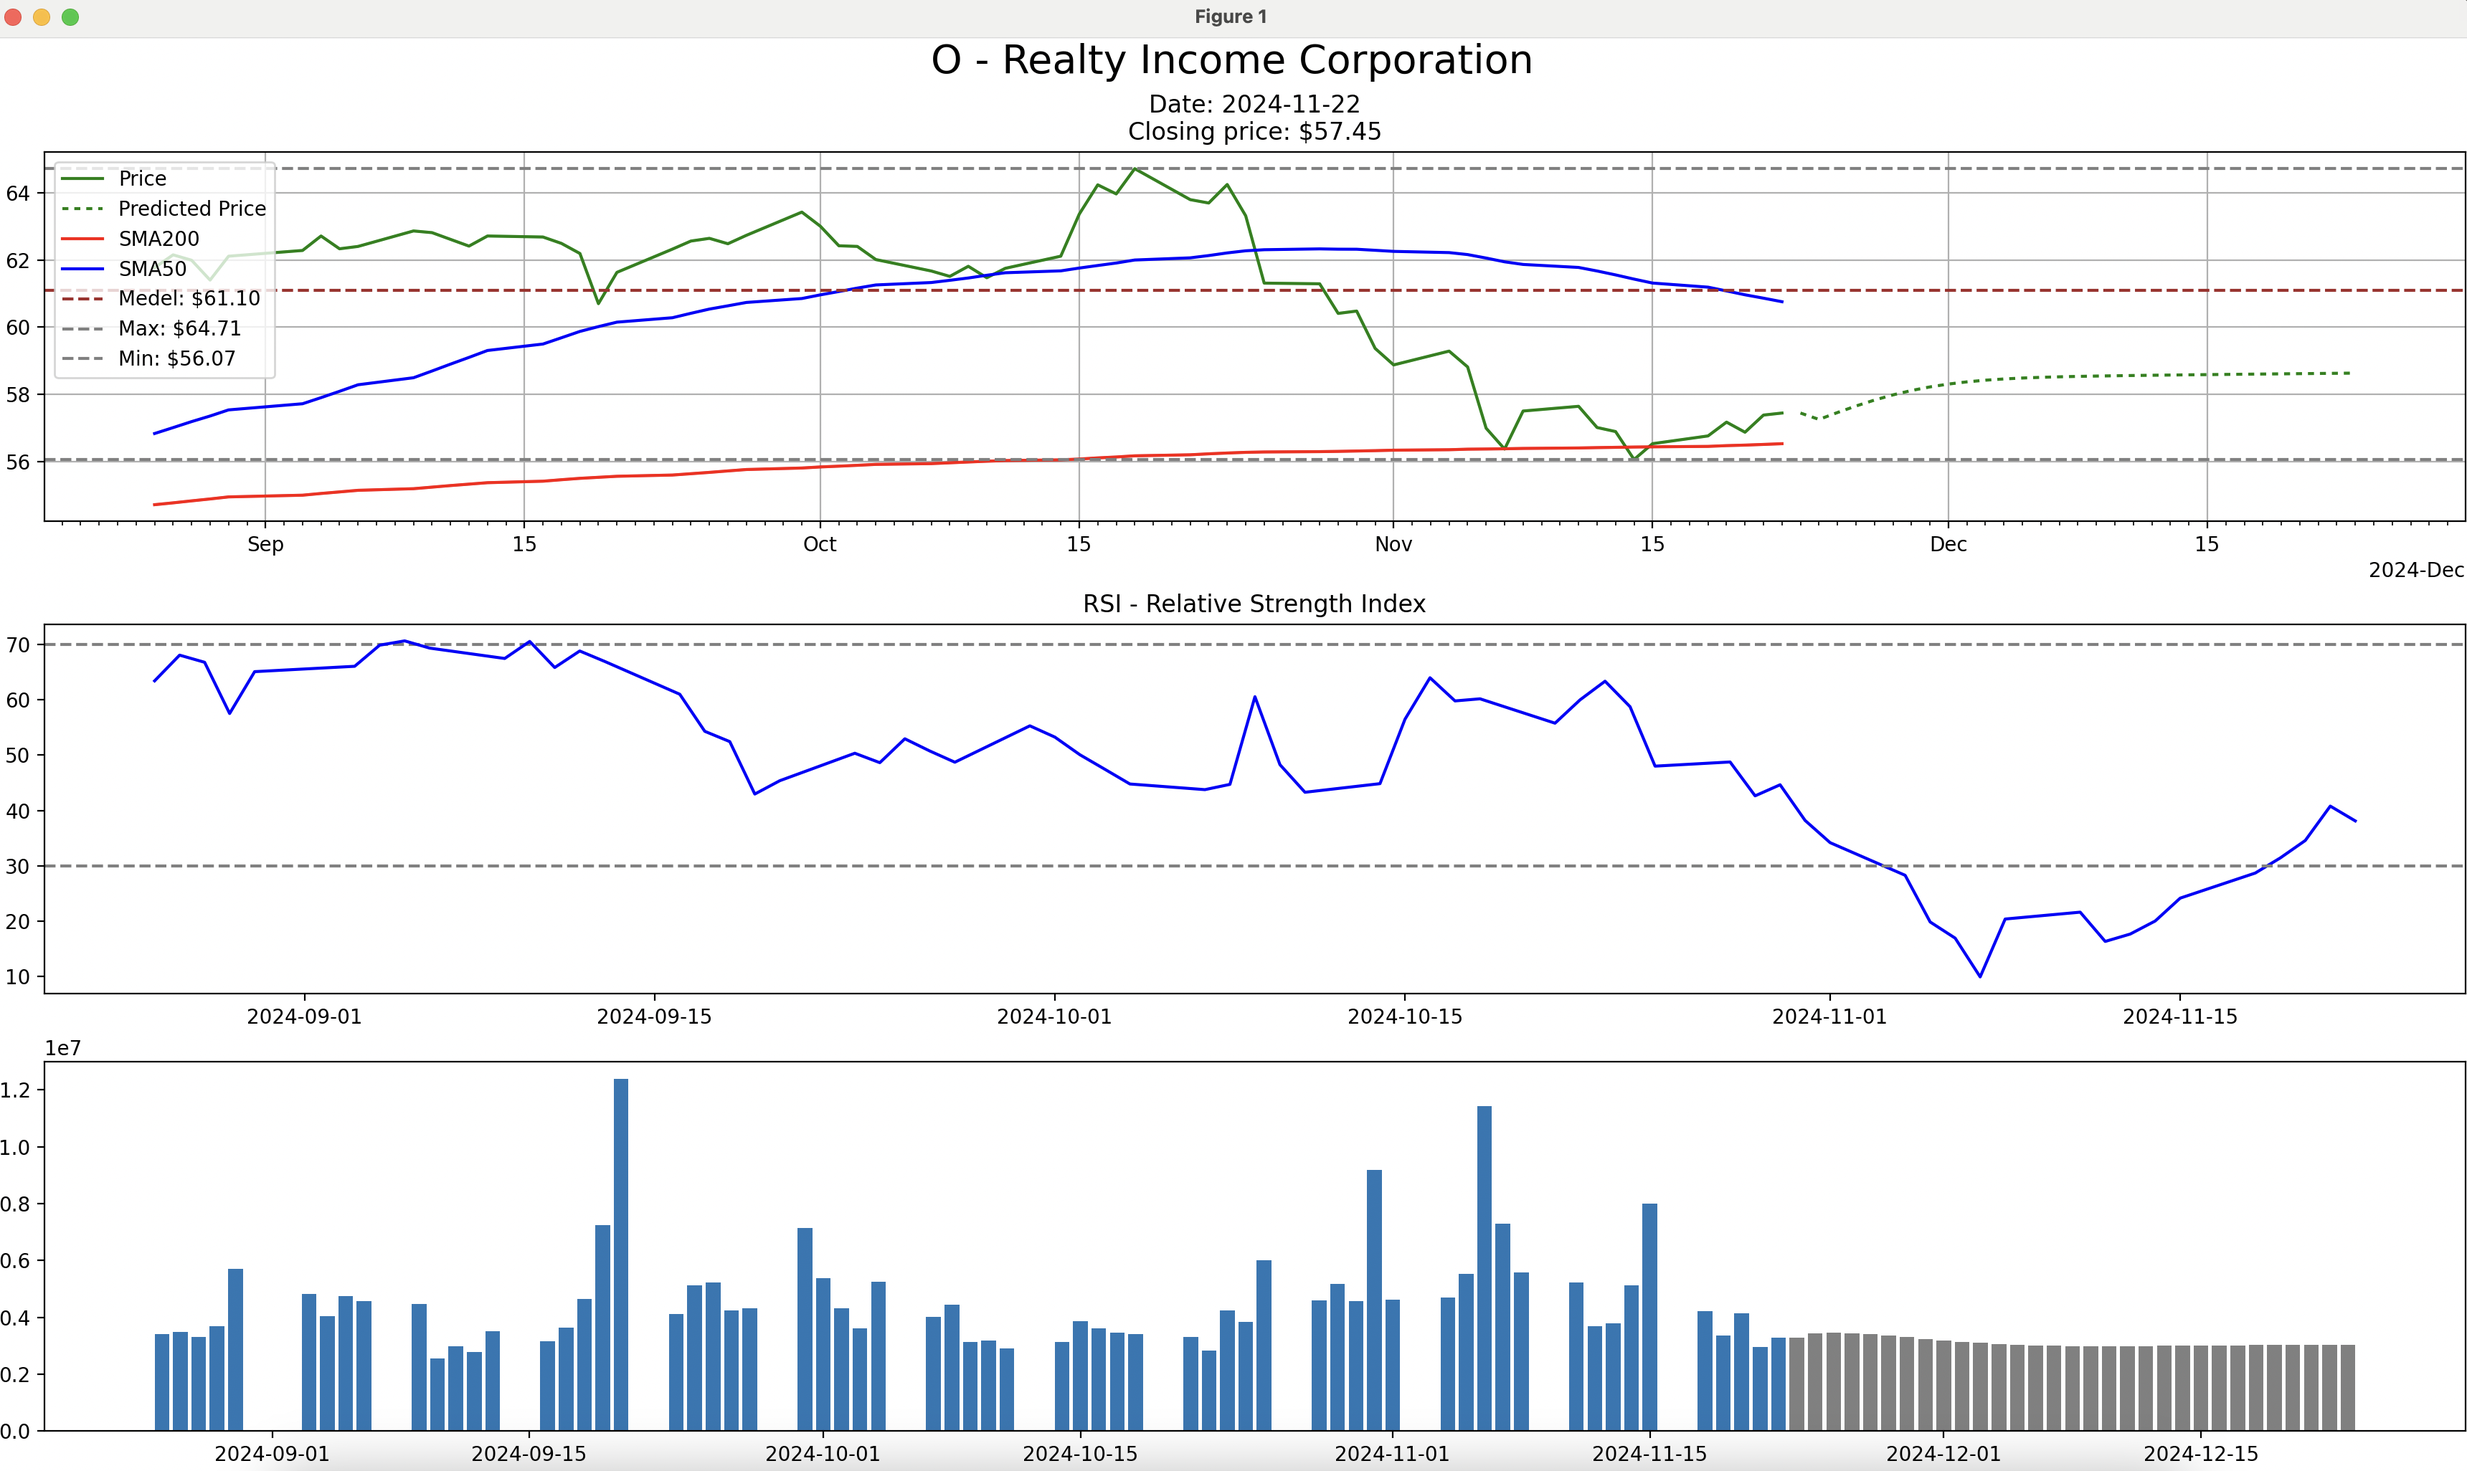
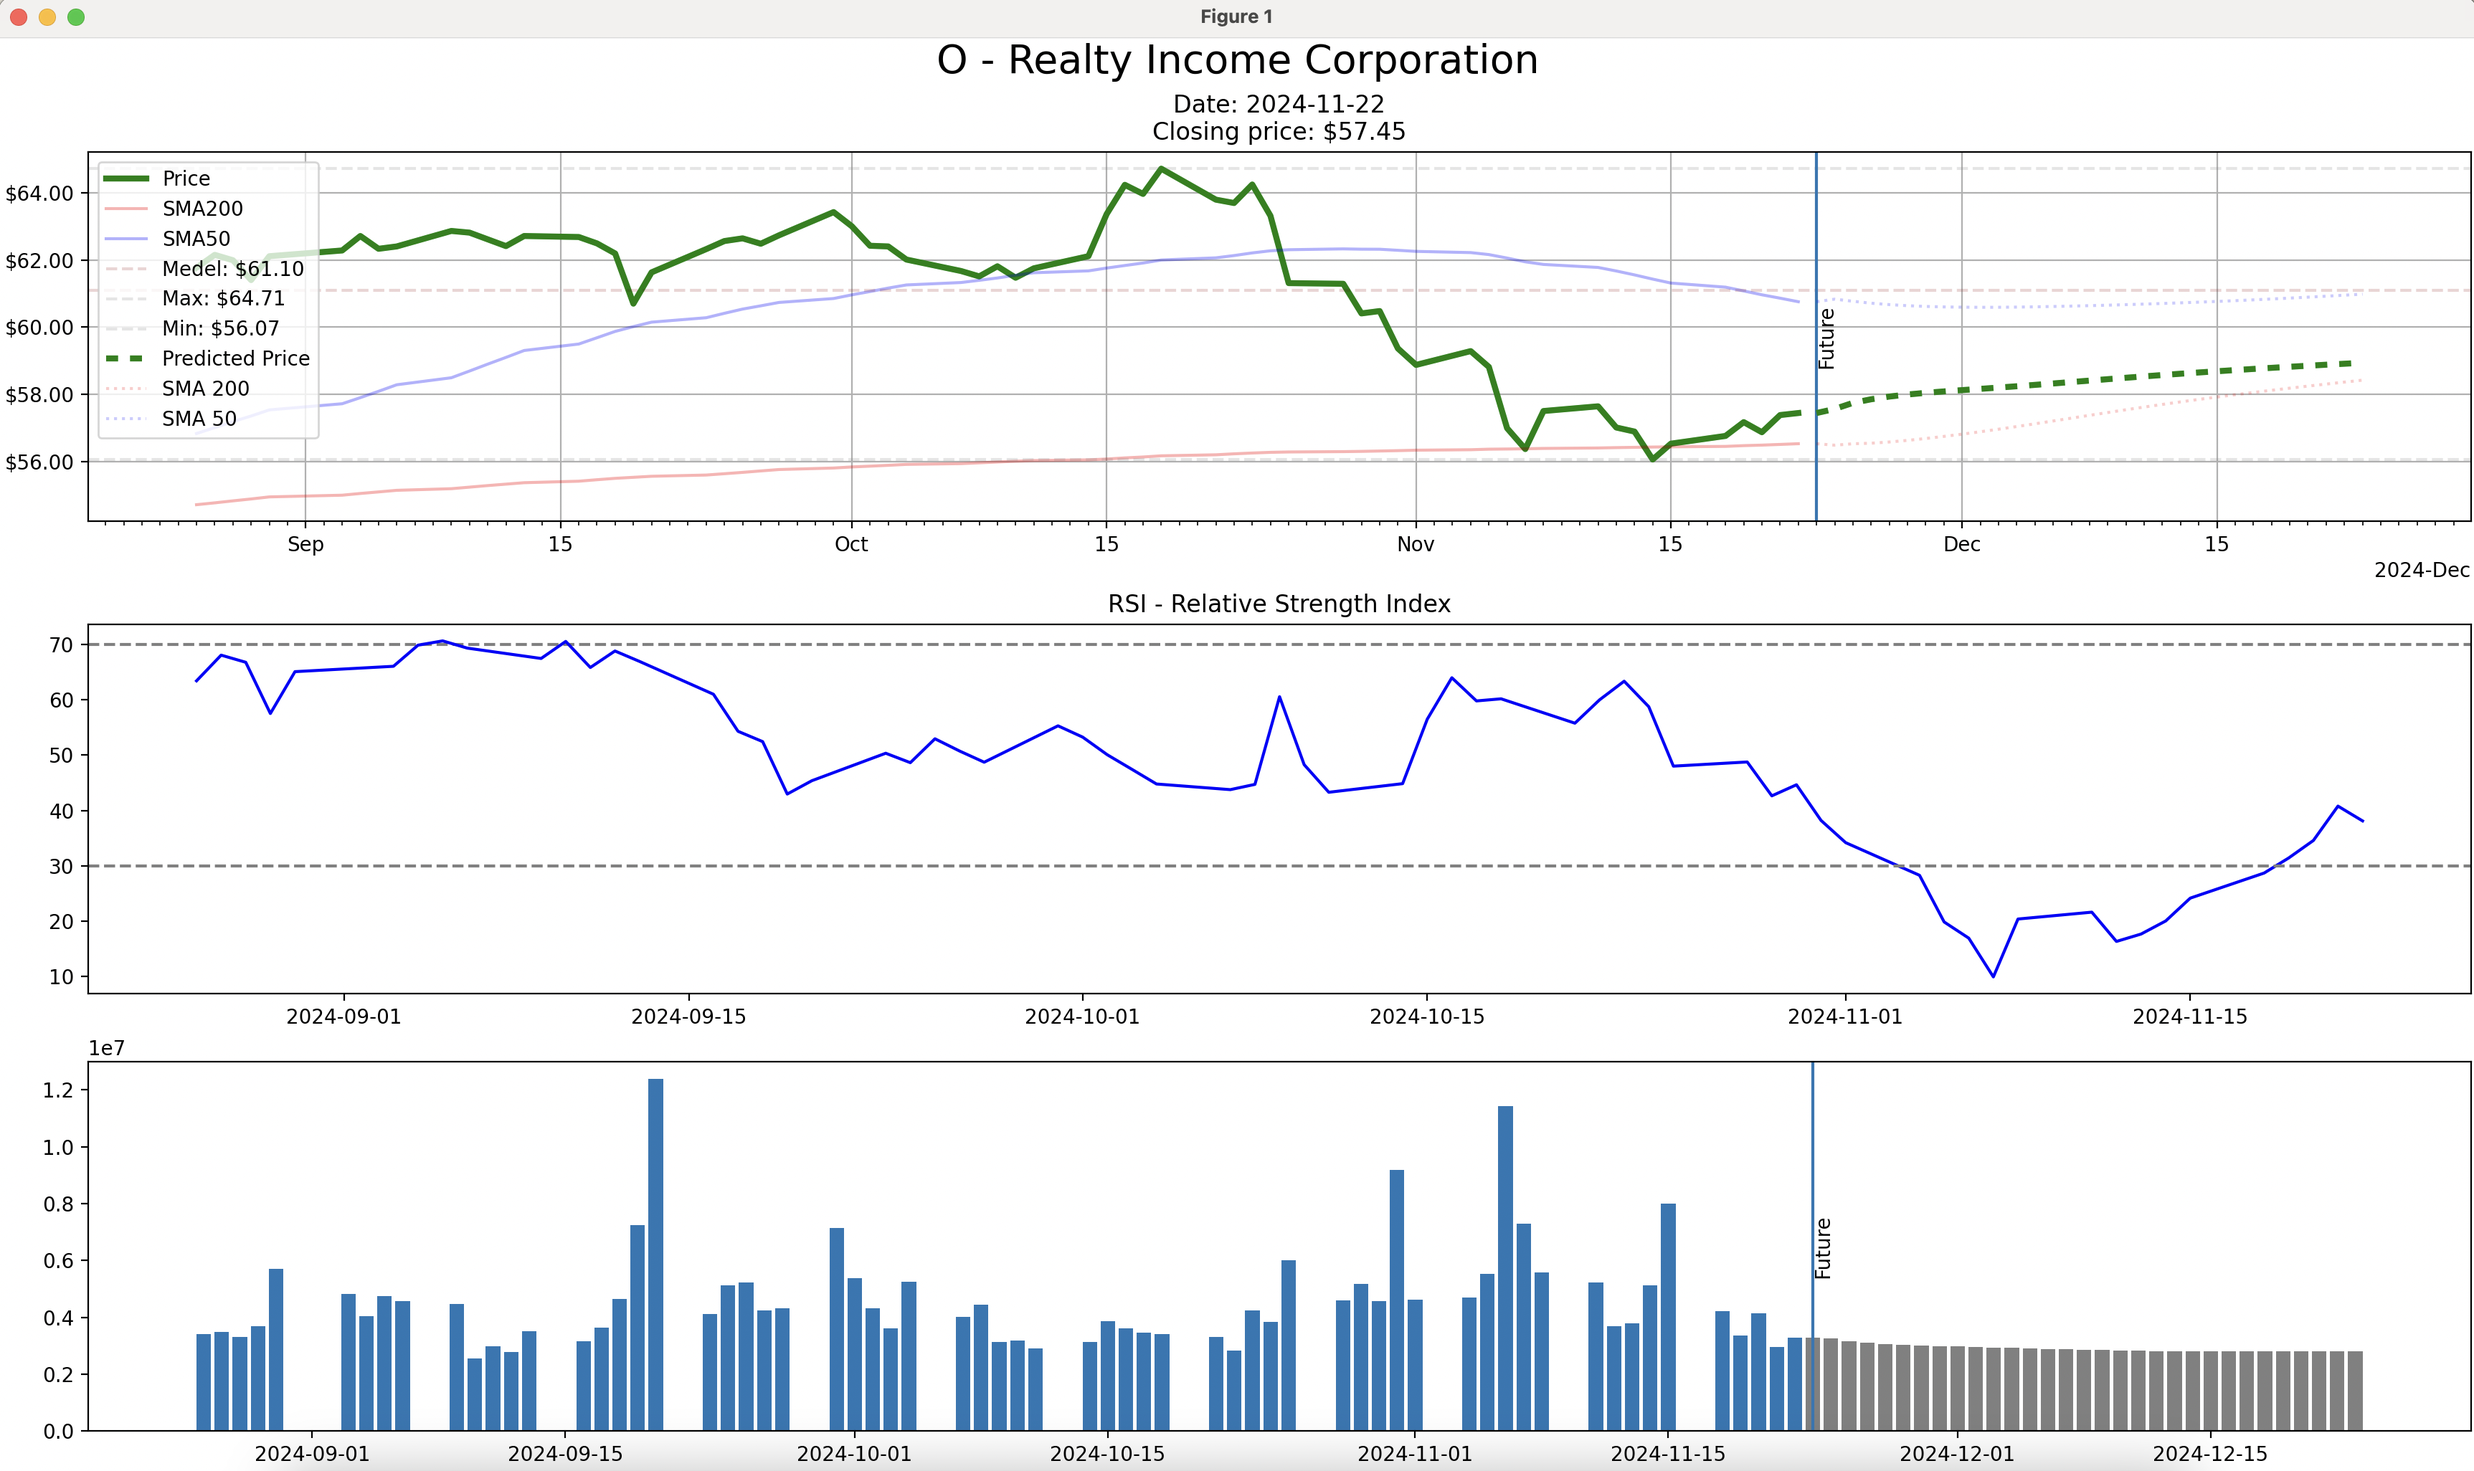
initial

diff --git a/src/plot.py b/src/plot.py
@@ -44,8 +44,8 @@ class Plot:
         self.axs[0].plot(prices['Close'], color='green', label='Predicted Price', linestyle=(0,(2,2)), linewidth=3)
         (bottom, top) = self.axs[0].get_ylim()
         self.axs[0].text(prices.index[0], top - ((top - bottom)/2), 'Future', rotation=90, verticalalignment='center')
-        self.axs[0].plot(prices['SMA_high'], color='red', label='SMA 200', linestyle="dotted", alpha=0.2)
-        self.axs[0].plot(prices['SMA_low'], color='blue', label='SMA 50', linestyle="dotted", alpha=0.2)
+        self.axs[0].plot(prices['SMA_high'], color='red', label='SMA 200', linestyle="dotted", alpha=0.3)
+        self.axs[0].plot(prices['SMA_low'], color='blue', label='SMA 50', linestyle="dotted", alpha=0.3)
         self.axs[2].axvline(prices.index[0])
         self.axs[2].bar(prices.index, prices['Volume'], color='grey', label='Predicted Volume')
         (bottom, top) = self.axs[2].get_ylim()
